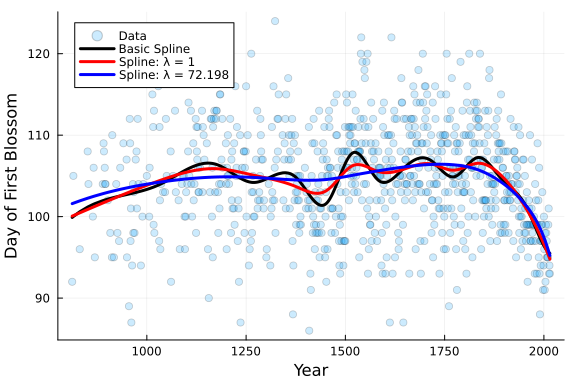
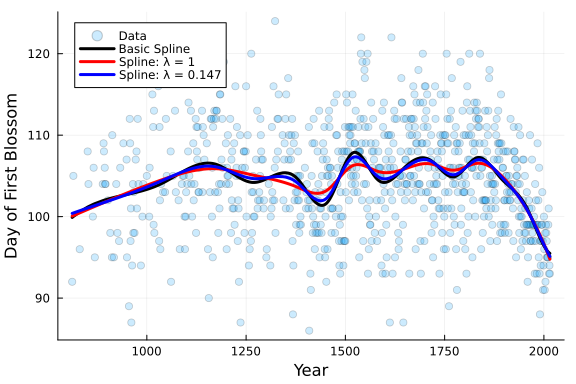
initial commit to update gams

Changed region(s): [[0.125, 0.4062, 0.9062, 0.5625], [0.3125, 0.0625, 0.4062, 0.25], [0.9062, 0.5312, 0.9688, 0.6562]]

diff --git a/_posts/2023-06-21-gams-julia.md b/_posts/2023-06-21-gams-julia.md
@@ -347,14 +347,16 @@ I was able to adapt Wood's R code from his text to Julia. The code for these fun
 {% highlight julia %}
 # Function to calculate GCV for given penalty
 function GCV(param::AbstractVector, Basis::BSplineBasis{Vector{Float64}}, x::AbstractVector, y::AbstractVector)
-    n = length(Basis.breakpoints)
+    n = length(y)
     Xp, yp = PenaltyMatrix(Basis, param[1], x, y)
-    β = coef(lm(Xp,yp))
+    β = coef(lm(Xp,yp)) # Coef
     H = Xp*inv(Xp'Xp)Xp' # hat matrix
-    trF = sum(diag(H)[1:n])
-    y_hat = Xp*β
-    rss = sum((yp-y_hat)[1:n].^2) ## residual SS
-    gcv = n*rss/(n-trF)^2
+    trF = sum(diag(H)[1:n]) # EDF
+    y_hat = Xp*β # predictions
+    rsd = y - y_hat[1:n] # residuals
+    rss = sum(rsd.^2) # residual SS
+    sig_hat = rss/(n-trF) # residual variance
+    gcv = sig_hat*n/(n-trF) # GCV score
     return gcv
 end
 
